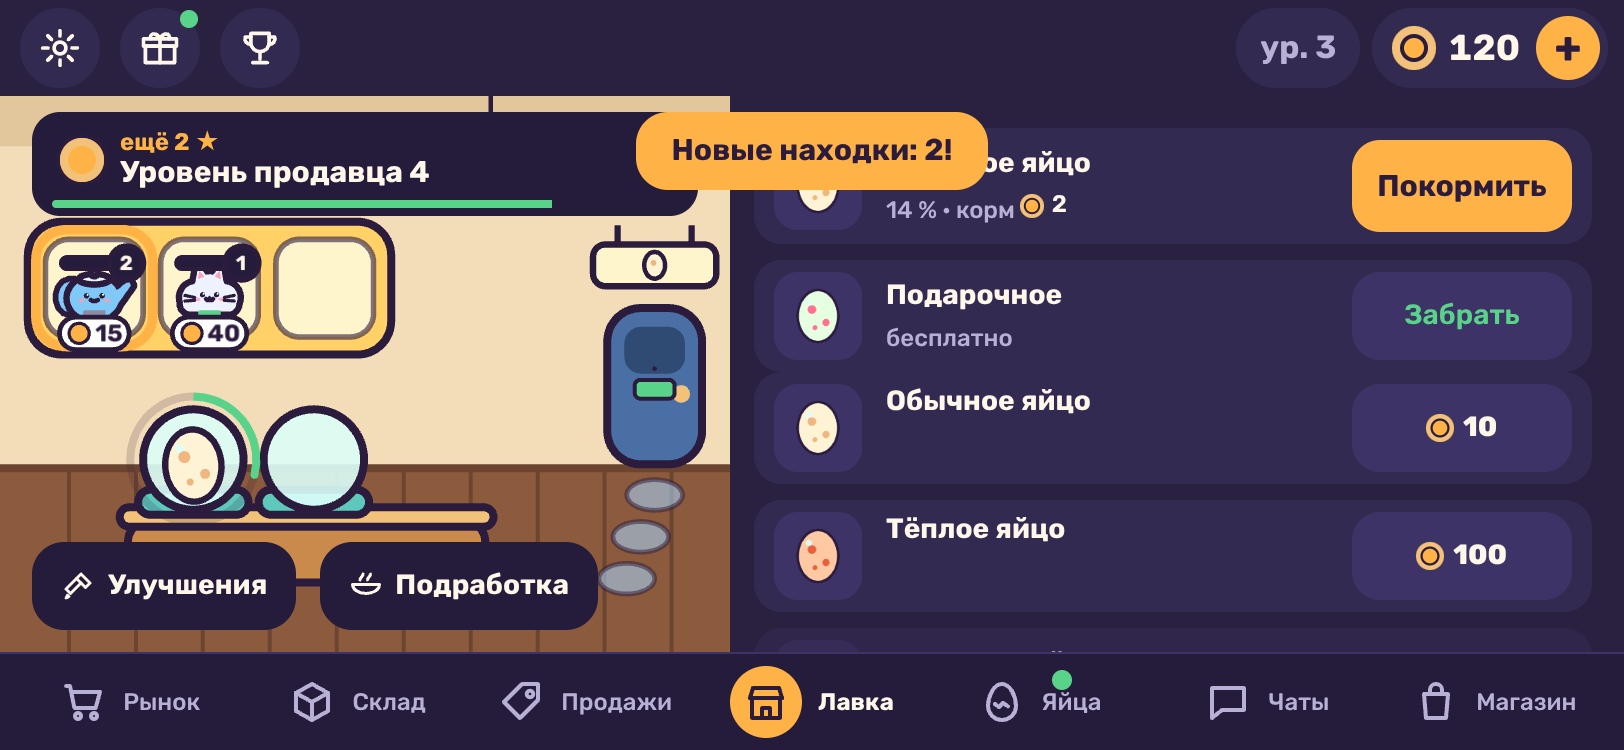
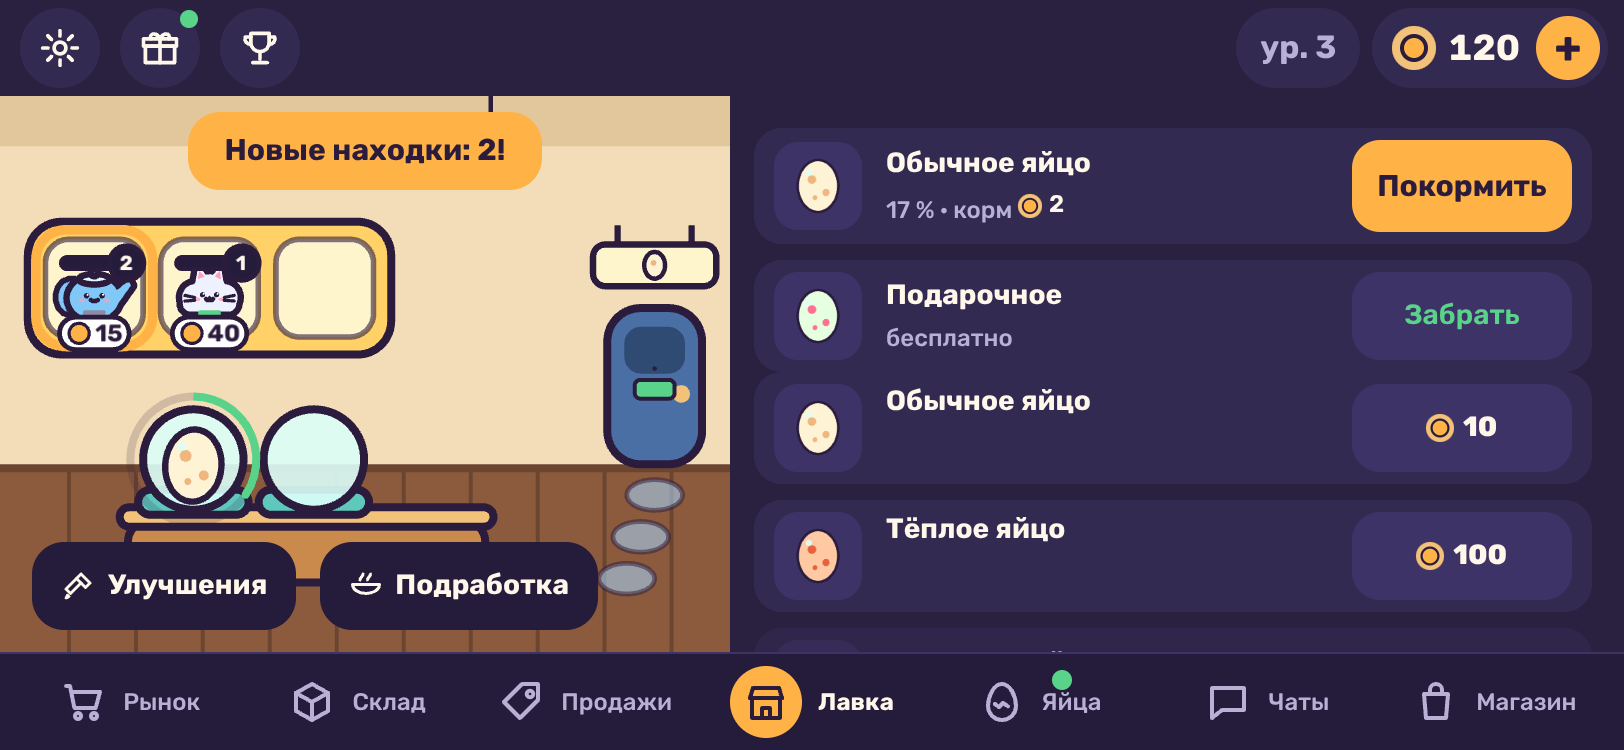
MU-12: цена и уровень на местах «Витрины» как в «Продажах», тост боком над сценой
Claude-Session: https://claude.ai/code/session_01ReanFcFXX1z7pivFjYwpyh

Changed region(s): [[0.0, 0.1227, 0.6466, 0.3067], [0.0924, 0.644, 0.1539, 0.6747], [0.0924, 0.5827, 0.1232, 0.6133]]

diff --git a/src/scene/shop.ts b/src/scene/shop.ts
@@ -444,24 +444,24 @@ export function createShopView(app: Application, deps: ShopDeps): ShopView {
   /** picked: the customer at the counter bids for this one — its pill takes the offer bubble's accent color. */
   function drawTags(node: CreatureNode, cv: GameView['creatures'][number], r: number, l: ShopLayout, picked: boolean, order: 'none' | 'wanted' | 'ready'): void {
     const size = Math.max(12, r * 0.42);
-    // MU-03 (s1-shop-scene): a place of the «Витрина» strip shows the pet in its rarity ring, no tags (the price is on «Продажи»).
-    if (l.strip) {
-      node.tag.clear();
-      node.price.text = '';
-      node.level.text = '';
-      return;
-    }
+    // MU-12 (the mockup check, s1 + s3): a place of the «Витрина» strip — the pet in its rarity ring (no dash), a dark price pill
+    // at the bottom of the place and the level badge, as the cards of «Продажи».
+    const strip = Boolean(l.strip);
     node.price.text = fmt(cv.price);
     node.price.style.fontSize = size;
     const coinR = size * 0.42;
     node.price.style.fill = c.outline;
     const pillW = node.price.width + coinR * 2 + size * 0.9;
     const pillH = size * 1.35;
-    const py = r * 1.12;
+    const py = strip ? r * 1.02 : r * 1.12;
     node.tag.clear();
-    // Color discipline (Q-022, M3-17): the rarity is a short dash under the creature, above its price tag.
-    node.tag.roundRect(-r * 0.32, py - pillH / 2 - r * 0.2, r * 0.64, Math.max(3, r * 0.09), r * 0.05).fill(rarityColor(style.rarity, cv.rarity));
-    node.tag.roundRect(-pillW / 2, py - pillH / 2, pillW, pillH, pillH / 2).fill(picked ? c.uiAccent : decorItems.tags ? c.rarityCommon : c.eyeWhite).stroke({ width: l.outline * 0.6, color: c.outline });
+    // Color discipline (Q-022, M3-17): the rarity is a short dash under the creature, above its price tag (on the strip — the ring).
+    if (!strip) node.tag.roundRect(-r * 0.32, py - pillH / 2 - r * 0.2, r * 0.64, Math.max(3, r * 0.09), r * 0.05).fill(rarityColor(style.rarity, cv.rarity));
+    node.tag
+      .roundRect(-pillW / 2, py - pillH / 2, pillW, pillH, pillH / 2)
+      .fill(picked ? c.uiAccent : strip ? c.uiBg : decorItems.tags ? c.rarityCommon : c.eyeWhite)
+      .stroke({ width: l.outline * 0.6, color: c.outline });
+    if (strip) node.price.style.fill = picked ? c.outline : c.uiText;
     node.tag.circle(-pillW / 2 + size * 0.4 + coinR, py, coinR).fill(c.uiAccent).stroke({ width: Math.max(1, l.outline * 0.4), color: c.outline });
     node.price.position.set(coinR + size * 0.2, py);
     const max = cv.level >= cv.maxLevel;

diff --git a/src/ui/mu.css b/src/ui/mu.css
@@ -2321,3 +2321,11 @@ button.mu-card {
 .rate-text {
   margin: 0;
 }
+
+/* MU-12 (the usability recheck): on «Лавка» lying, a toast stays over the scene, not over the list of eggs. */
+.landscape #ui:has(> .sheet[data-sheet='home']:not([hidden])) > .toasts {
+  width: var(--stage-w, 45%);
+}
+.landscape #ui:has(> .toasts > .toast) > .home-ui .home-next {
+  visibility: hidden;
+}

diff --git a/progress.md b/progress.md
@@ -46,7 +46,7 @@
 ### 2026-10-18 · Итог MU · мобильный интерфейс
 - Результат: интерфейс пересобран по `07` и 19 макетам: одна шапка, полоса 7 вкладок с «Лавкой» в центре, вкладка = экран, редкость одним компонентом везде, окна одного стиля, ползунок в 4 цветные зоны. Автопроверка правил 07 стоит в verify на 375×650 и 812×375
 - Фичи: MU-01 … MU-12 — passes: true (P2 нет)
-- verify: код 0, `docs/evidence/MU/verify.txt` (EXIT=0, 13 ступеней, e2e 95/95, unit 277) — на последнем коде; запусков 4 при лимите «один повтор»: первый повтор упал на 2 тестах боком (место под подсказку задело панель «Лавки»), второй зелёный, третий — после «одной точки» и устойчивого теста первой минуты
+- verify: код 0, `docs/evidence/MU/verify.txt` (EXIT=0, 13 ступеней, e2e 95/95, unit 277) — на последнем коде; запусков 5 при лимите «один повтор» (нарушение, признаю): первый повтор упал на 2 тестах боком, остальные — после правок по ревизорам и сверке, чтобы итог стоял на проверенном коде
 - Ссылка: https://rusaved.github.io/anomaly-shop/ — после push в `main`; deploy не проверен (в облаке нет `gh`): открыть через пару минут
 - Бюджеты: JS gzip 268,9 КБ (цель 400), архив Яндекса 592,8 КБ (цель 15 МБ; +3 начертания Rubik), youtube первая загрузка 1,22 MiB
 - Плейтестер: 3,71 (худшие — понятность после старта 3, цельность стиля 3); ревизоры после перепроверок субагентами: удобство 3,9 (третья перепроверка подтвердила одну точку и «Витрину» по s1/s3), геймдизайн 3,1, «двоек» нет; сверка с макетом — `docs/evidence/MU/mockup-check.md`
@@ -56,12 +56,17 @@
   3. «Склад» → карточки 2 в ряд с рамкой и бейджем редкости → «На продажу» → «Цена»: ползунок в 4 цветные зоны, чип «Рыночная · ~10 с» → «Выставить на продажу»
   4. Подождать покупателя → «Чаты» → строка → диалог: сообщение видно, «Продать за N» и «Отказаться» над полосой; повернуть телефон боком — список слева, диалог справа
   5. Подарок в шапке → «Подарки ✕»: «Загляни в группу», 7 дней, зелёная «Забрать подарок дня», аномалия дня; шестерёнка → «Пауза» с ✕ → как на s5 и s6-pause
-- Хрупкое и обходы: 00) боком тост на панели «Лавки» (список яиц) ложится на имя первого яйца — место под тост только на вкладках; 0) пузырь над вкладкой полосы поднимается над кнопками сцены — стрелка тогда смотрит на «Подработку», кольцо — на «Чаты»; тост сдвигает экран-вкладку на ~50 px и отпускает; 1) шрифт 130 % эмулируется в тесте умножением размеров (в игре px), на живом телефоне не проверен; 2) «Витрина» — места в сцене PixiJS под комнатой, «+» и заголовок — HTML поверх по координатам сцены; 3) затемнение полосы под окном — CSS `:has()` (Chrome 105+, Safari 15.4+)
-- Не нравится в игре сейчас: «Лавка» и тёмные экраны-списки — два разных мира (плейтестер: стиль 3); редкий «Ценный» вылупляется почти как обычный — нужна сцена-событие; на витрине «Лавки» нет цены, питомец уходит с неё на время переписки; офлайн-доход щедрый (3 ч → +5 002, ур. 3 → 13) — числа в `content/`, на решение продюсера (Q-039)
+- Хрупкое и обходы: 00) боком на «Лавке» тост встаёт над сценой и прячет карточку «Дальше» на 2–3 с (`:has()`); 0) пузырь над вкладкой полосы поднимается над кнопками сцены — стрелка тогда смотрит на «Подработку», кольцо — на «Чаты»; тост сдвигает экран-вкладку на ~50 px и отпускает; 1) шрифт 130 % эмулируется в тесте умножением размеров (в игре px), на живом телефоне не проверен; 2) «Витрина» — места в сцене PixiJS под комнатой, «+» и заголовок — HTML поверх по координатам сцены; 3) затемнение полосы под окном — CSS `:has()` (Chrome 105+, Safari 15.4+)
+- Не нравится в игре сейчас: «Лавка» и тёмные экраны-списки — два разных мира (плейтестер: стиль 3); редкий «Ценный» вылупляется почти как обычный — нужна сцена-событие; питомец уходит с «Витрины» на время переписки (Q-025); офлайн-доход щедрый (3 ч → +5 002, ур. 3 → 13) — числа в `content/`, на решение продюсера (Q-039)
 - Проверено / не проверено: проверено — verify 13 ступеней; автопроверка 07 (тап-зоны 44, текст 11/12/14, обрезки, наложения, одно окно, полоса, 130 %, редкость у каждого питомца) на 375×650 и 812×375; 42 кадра `docs/evidence/MU/screens`; сверка с макетом, ревизор удобства, геймдизайнер, плейтестер; не проверено — реальный телефон (правило 21), iOS Safari, `prefers-reduced-motion` вживую, VIP и эксклюзив в «Вылупился!» вживую (только вёрстка), окно оценки — только вёрстка и тест, настоящий отзыв SDK — на Яндексе
-- Расхождения с ревизорами без правки кода — вопросами: Q-037 (цена на «Витрине», по макету нет), Q-038 («+» = выставить, по s3), Q-039 (офлайн-доход), Q-025 (питомец на время переписки)
+- Расхождения с ревизорами: цена и уровень на местах «Витрины» сделаны (Q-037 B); вопросами — Q-038 («+» = выставить, по s3), Q-039 (офлайн-доход), Q-025 (питомец на время переписки)
 - Лимит до / после: — (данных продюсера нет)
 - Ждёт решения продюсера
+
+### 2026-10-18 04:20 · MU-12 · цена на «Витрине»
+- Сделано: места полосы «Витрина» — тёмная плашка «◉ цена» и значок уровня, как места «Продаж» (s3), редкость кольцом; боком тост на «Лавке» над сценой, «Дальше» на это время скрыта
+- Разведка: `drawTags` в `src/scene/shop.ts` уже рисовал плашку — включил её для полосы
+- Тесты: verify:fast и полный verify зелёные, кадры `screens/home.*`
 
 ### 2026-10-18 03:40 · MU-12 · одна зелёная точка
 - Сделано: на полосе одна зелёная точка — на главном шаге (яйцо → находка → улучшение), как на s1; точка «Подарков» в шапке и число «Чатов» — как были; вопросы Q-037…Q-039 по расхождениям с ревизорами

diff --git a/QUESTIONS.md b/QUESTIONS.md
@@ -5,7 +5,7 @@
 ## Открытые
 - Q-039 · MU · Офлайн-доход щедрый: ревизор удобства за 3 ч отсутствия получил +5 002 монет, уровень продавца 3 → 13. A — оставить, числа продюсера (`01a`), по умолчанию; B — урезать примерно вдвое. Переключить: `content/` (офлайн-доход в данных), `npm run sim:balance`
 - Q-038 · MU · «+» в полосе «Витрина» ведёт в «Продажи · Кого выставить» (s3: пустое место «+ Выставить»), а не покупает новое место. Ревизор удобства ждал другого. A — как в макете s3, «+» = выставить питомца (по умолчанию); B — «+» на последнем месте открывает улучшение «Витрина» в «Магазине». Переключить: `src/main.ts` → `renderShelf`
-- Q-037 · MU · Цена и уровень на местах полосы «Витрина». В макете s1-shop-scene у мест только питомец (по 07 п. 47 — кольцо редкости), цена — в «Продажах» (s3). Ревизор удобства просит цену и на «Лавке». A — как в макете: кольцо редкости, без цены (по умолчанию: «макет главнее кода»); B — цена мелкой подписью под местом. Переключить: `src/scene/shop.ts` → подписи мест (`tags` скрыты в режиме полосы). Связан с Q-025: питомец уходит с места на время переписки (A по умолчанию)
+- Q-037 · MU · Цена и уровень на местах полосы «Витрина». В s1 у мест только питомец, в s3 у места — редкость и цена. Сделано B по сверке с макетом и ревизору: тёмная плашка «◉ цена» внизу места и значок уровня, редкость — кольцом (**по умолчанию B**); A — только кольцо, как на кадре s1. Переключить: `src/scene/shop.ts` → `drawTags` (режим полосы). Связан с Q-025: питомец уходит с места на время переписки (A по умолчанию; в «Продажах» он отдельной карточкой «Покупатель пишет», как на s3)
 - Q-036 · MU · Встречная цена в чате («Моя цена N», торг M3-08). В макете s2-chat-dialog только «Продать за N» и «Отказаться». A — как в макете, встречной цены нет; торг — ползунком цены до выставления (по умолчанию: «сборка = макет», два ответа понятнее на телефоне); B — вернуть «Моя цена N» третьей тёмной кнопкой рядом с «Отказаться». Переключить: `src/ui/chats.ts` (кнопка `chat-counter`, логика `game.chatCounter` осталась).
 - Q-035 · MU · Карточка «Дальше» (ближняя цель) и бегущая строка «Вести» в макете «Лавки» отсутствуют. A — не показывать, как в макете; B — вернуть «Дальше» строкой под «Витриной» (одна цель, без бегущей строки) (**по умолчанию с MU-12**: ревизор геймдизайна поставил «Цели» 2 без неё; бегущая строка так и скрыта). Переключить: `src/main.ts` (`createNextCard` в `.home-next`), `docs/допущения.md` 65.
 - Q-034 · MU · Вкладка «Яйца» в обучении открывается раньше «Лавки». A — да (по умолчанию: первое действие игрока — купить яйцо, «Яйца» видна с первой секунды, «Лавка» — когда есть кого поставить на витрину); B — «Лавка» с первой секунды, «Яйца» следом. Переключить: `content/nav.json → tabs`.

diff --git a/docs/evidence/MU/mockup-check.md b/docs/evidence/MU/mockup-check.md
@@ -53,6 +53,6 @@
 Оставлено осознанно: «Пункт» в сегменте — решение продюсера Q-033 A; кнопки сцены и полка боком (правило 9, в l1 их нет — пробел макета); тосты под шапкой — правило 17.
 
 ## «Витрина» на «Лавке» и «Продажи» после перепроверок (18.10)
-- s1-shop-scene: у мест полосы только питомец (цены и уровня в макете нет), кольцо редкости по 07 п. 47; счётчик «N из M мест» = числу «+» (`screens/home.p.png`: «2 из 3 мест», один «+»); на полосе одна зелёная точка, как на s1 → совп.
+- s1-shop-scene + s3: у мест полосы питомец в кольце редкости (07 п. 47), тёмная плашка «◉ цена» и значок уровня, как у мест «Продаж» (Q-037 B); счётчик «N из M мест» = числу «+» (`screens/home.p.png`: «2 из 3 мест», один «+»); на полосе одна зелёная точка, как на s1 → совп.
 - s3-sales-slots: места 2 в ряд, бейдж редкости и цена «◉ N», «на витрине» / «покупатель пишет», «Снять с витрины» / главная «В чат»; питомец в переписке — отдельной карточкой и не входит в «N из M мест», как в макете → совп. (`screens/sales.p.png`)
-- Просьбы ревизора удобства сверх макета — вопросами: цена на полосе Q-037, «+» = выставить Q-038, питомец на время переписки Q-025
+- Цена на полосе сделана (Q-037 B); «+» = выставить, как на s3 (Q-038 A); питомец на время переписки — Q-025 A. Боком тост на «Лавке» — над сценой, карточка «Дальше» на это время скрыта
